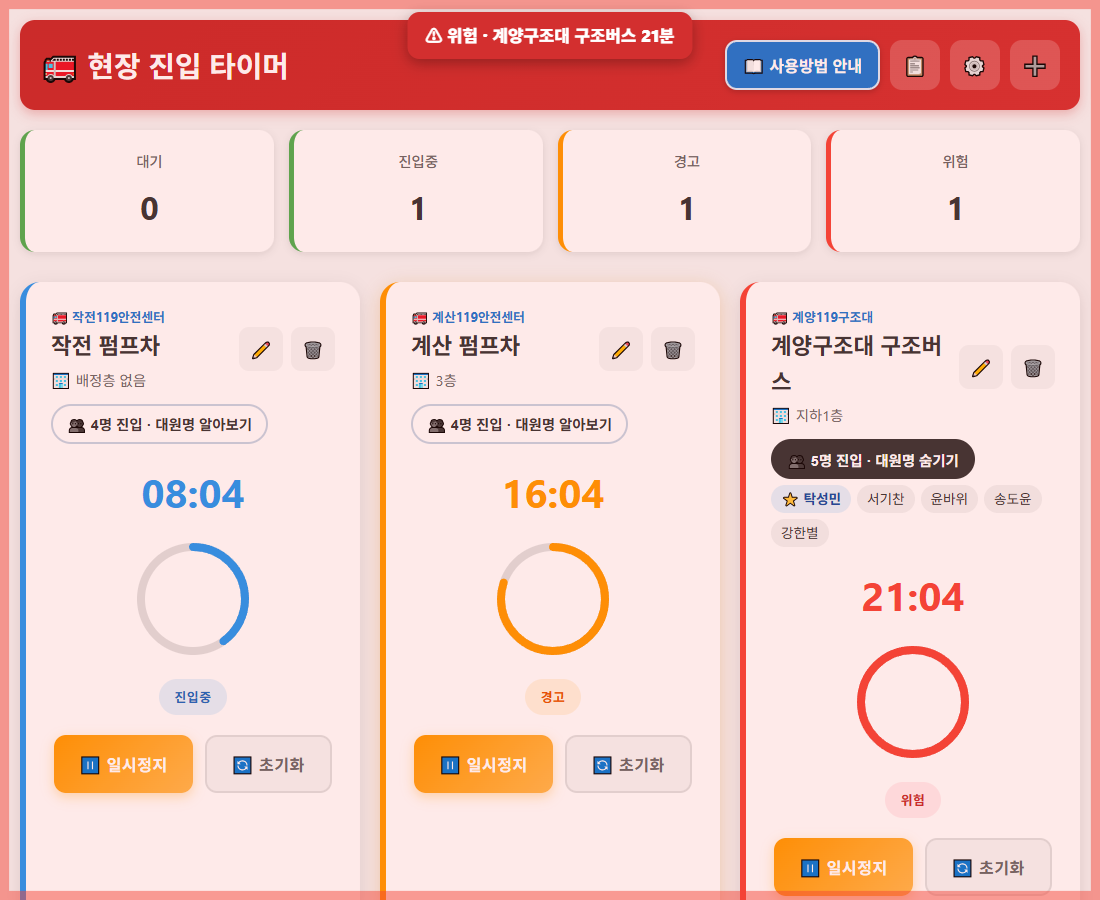
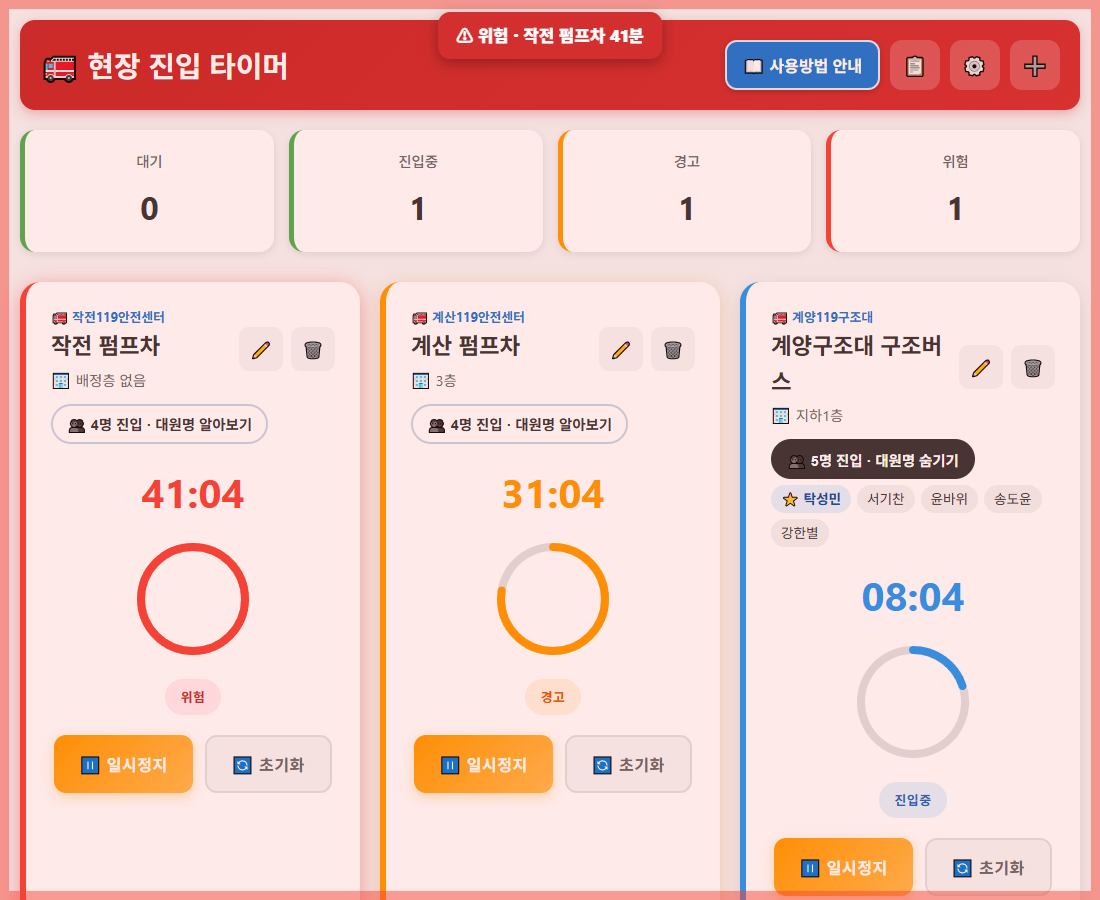
경고·위험 기본 시간을 15/20분에서 30/40분으로
- 앱 기본값·입력칸(경고 최대 60, 위험 최대 90), 음성 안내 예시 문구
- 예전 기본값(15/20)을 그대로 쓰던 기기는 30/40 으로 자동 변경 (직접 바꾼 값은 유지)
- 테스트·README·화면 캡처(작전 펌프차 위험 41분)·발표 스크립트 갱신

diff --git a/tests/e2e.test.js b/tests/e2e.test.js
@@ -94,16 +94,16 @@ test('경고·위험: 음성·화면 깜빡임·기록, 화면 꺼짐 방지', a
     await sleep(400);
     assert.equal(await page.evaluate(() => window.__wake), 1, '진입 중 화면 꺼짐 방지');
 
-    await page.evaluate(() => { window.fieldSafetyTimer.teams.at(-1).entryTime = Date.now() - 16 * 60000; });
+    await page.evaluate(() => { window.fieldSafetyTimer.teams.at(-1).entryTime = Date.now() - 31 * 60000; });
     await sleep(1500);
     assert.ok(await page.evaluate(() => document.body.classList.contains('flash-warning')));
-    await page.evaluate(() => { window.fieldSafetyTimer.teams.at(-1).entryTime = Date.now() - 21 * 60000; });
+    await page.evaluate(() => { window.fieldSafetyTimer.teams.at(-1).entryTime = Date.now() - 41 * 60000; });
     await sleep(1500);
     assert.ok(await page.evaluate(() => document.body.classList.contains('flash-danger')));
-    assert.match(await page.$eval('#alertFlashBanner', (e) => e.textContent), /계산 펌프차 21분/);
+    assert.match(await page.$eval('#alertFlashBanner', (e) => e.textContent), /계산 펌프차 41분/);
     assert.deepEqual(await page.evaluate(() => window.__spoken), [
-        '경고. 계산 펌프차, 15분 경과.',
-        '위험. 계산 펌프차, 20분 경과. 즉시 확인하세요.'
+        '경고. 계산 펌프차, 30분 경과.',
+        '위험. 계산 펌프차, 40분 경과. 즉시 확인하세요.'
     ]);
 
     await (await lastCard(page)).$eval('.btn-pause', (b) => b.click());
@@ -121,6 +121,6 @@ test('경고·위험: 음성·화면 깜빡임·기록, 화면 꺼짐 방지', a
     const csv = await page.evaluate(() => window.__csv);
     assert.equal(await page.evaluate(() => window.__csvBom), '239,187,191', '엑셀 한글 깨짐 방지 BOM');
     assert.match(csv, /^"날짜","시각","출동대","대명","내용"/);
-    assert.match(csv, /"계산119안전센터","계산 펌프차","위험","21:00","⭐노승현/);
+    assert.match(csv, /"계산119안전센터","계산 펌프차","위험","41:00","⭐노승현/);
     assert.deepEqual(page.errors, []);
 });

diff --git a/public/app.js b/public/app.js
@@ -3,8 +3,8 @@ class FieldSafetyTimer {
     constructor() {
         this.teams = [];
         this.settings = {
-            warningTime: 15, // 분
-            dangerTime: 20,  // 분
+            warningTime: 30, // 분
+            dangerTime: 40,  // 분
             soundEnabled: true,
             vibrationEnabled: true,
             voiceEnabled: true,  // 음성 안내
@@ -41,6 +41,12 @@ class FieldSafetyTimer {
 
             this.teams = savedTeams;
             this.settings = { ...this.settings, ...savedSettings };
+            // 예전 기본값(15/20분)을 그대로 쓰던 기기는 새 기본값(30/40분)으로
+            if (savedSettings && savedSettings.warningTime === 15 && savedSettings.dangerTime === 20) {
+                this.settings.warningTime = 30;
+                this.settings.dangerTime = 40;
+                this.saveSettings();
+            }
 
             // 기본 팀들이 없으면 생성
             if (this.teams.length === 0) {
@@ -563,8 +569,8 @@ class FieldSafetyTimer {
 
     // 설정 업데이트
     updateSettings() {
-        this.settings.warningTime = parseInt(document.getElementById('warningTime').value) || 15;
-        this.settings.dangerTime = parseInt(document.getElementById('dangerTime').value) || 20;
+        this.settings.warningTime = parseInt(document.getElementById('warningTime').value) || 30;
+        this.settings.dangerTime = parseInt(document.getElementById('dangerTime').value) || 40;
         this.settings.soundEnabled = document.getElementById('soundEnabled').checked;
         this.settings.vibrationEnabled = document.getElementById('vibrationEnabled').checked;
         this.settings.voiceEnabled = document.getElementById('voiceEnabled').checked;

diff --git a/public/index.html b/public/index.html
@@ -131,11 +131,11 @@
             <div class="modal-body">
                 <div class="setting-group">
                     <label>경고 시간 (분)</label>
-                    <input type="number" id="warningTime" value="15" min="1" max="30">
+                    <input type="number" id="warningTime" value="30" min="1" max="60">
                 </div>
                 <div class="setting-group">
                     <label>위험 시간 (분)</label>
-                    <input type="number" id="dangerTime" value="20" min="1" max="60">
+                    <input type="number" id="dangerTime" value="40" min="1" max="90">
                 </div>
                 <div class="setting-group">
                     <label>알림 활성화</label>
@@ -149,7 +149,7 @@
                     </div>
                     <div class="toggle-switch">
                         <input type="checkbox" id="voiceEnabled" checked>
-                        <label for="voiceEnabled">음성 안내 ("작전 펌프차, 15분 경과")</label>
+                        <label for="voiceEnabled">음성 안내 ("작전 펌프차, 30분 경과")</label>
                     </div>
                     <div class="toggle-switch">
                         <input type="checkbox" id="flashEnabled" checked>

diff --git a/tests/screenshots.js b/tests/screenshots.js
@@ -32,7 +32,7 @@ const OUT = path.join(__dirname, '..', 'docs', 'screenshots');
     await page.evaluate(() => {
         const app = window.fieldSafetyTimer;
         app.teams = app.teams.filter((t) => t.vehicle);
-        const ago = [8, 16, 21];
+        const ago = [41, 31, 8]; // 작전 펌프차 위험, 계산 펌프차 경고, 구조버스 진입중
         app.teams.forEach((t, i) => { t.status = 'active'; t.entryTime = Date.now() - ago[i] * 60000; });
         app.saveTeams();
         app.render();

diff --git a/public/sw.js b/public/sw.js
@@ -1,5 +1,5 @@
 // 서비스 워커 - 오프라인 지원 및 캐싱
-const CACHE_NAME = 'field-safety-timer-v2.4.0';
+const CACHE_NAME = 'field-safety-timer-v2.4.1';
 const CACHE_URLS = [
     '/',
     '/index.html',

diff --git a/README.md b/README.md
@@ -30,7 +30,7 @@
 | 차량별 타이머 | ① 안전센터 → ② 차량을 골라야 저장. 진입 대원 체크, 주간/야간 선택 |
 | 대장 표시 | 진압대원 칸 맨 앞 사람을 대장(⭐)으로, '대장 지정'으로 변경 가능 |
 | 대원명 숨김 | 화면을 단순하게: '대원명 알아보기'를 눌러야 이름 표시 |
-| 경고·위험 알림 | 경고(기본 15분)·위험(기본 20분)에 소리·진동·**음성 안내**("위험. 작전 펌프차, 20분 경과"), **화면 깜빡임**(경고 주황 1회, 위험 빨강 계속 + 상단 배너). 위험은 1분마다 음성 반복 |
+| 경고·위험 알림 | 경고(기본 30분)·위험(기본 40분)에 소리·진동·**음성 안내**("위험. 작전 펌프차, 40분 경과"), **화면 깜빡임**(경고 주황 1회, 위험 빨강 계속 + 상단 배너). 위험은 1분마다 음성 반복 |
 | 화면 꺼짐 방지 | 진입 중인 차량이 있으면 화면이 꺼지지 않게 유지 (꺼지면 알람이 늦을 수 있음) |
 | 활동 기록 | 진입 시작·일시정지·이어서 시작·경고·위험·초기화를 시각·경과·대원과 함께 기록, 엑셀(CSV)로 내보내기 |
 | 오프라인 | 한 번 열면 인터넷이 끊겨도 동작 (서비스워커). 편성표 읽기 라이브러리도 앱에 포함 |
